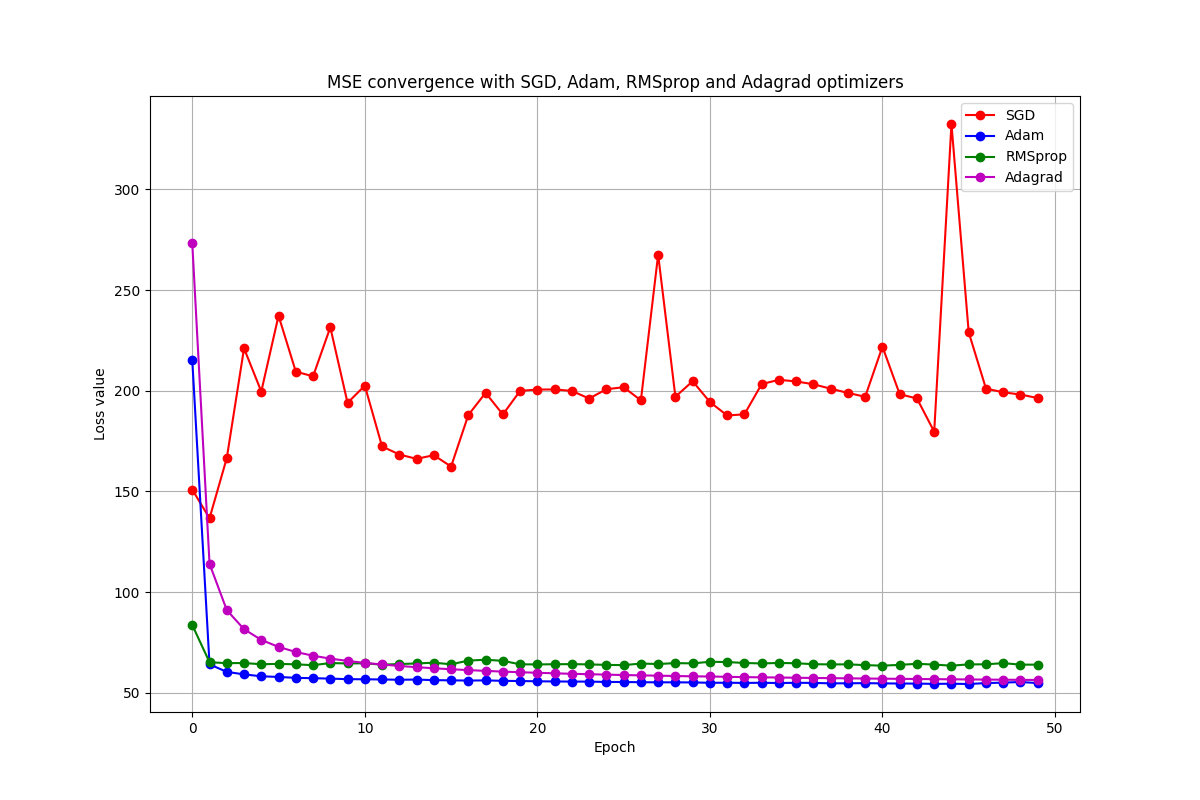
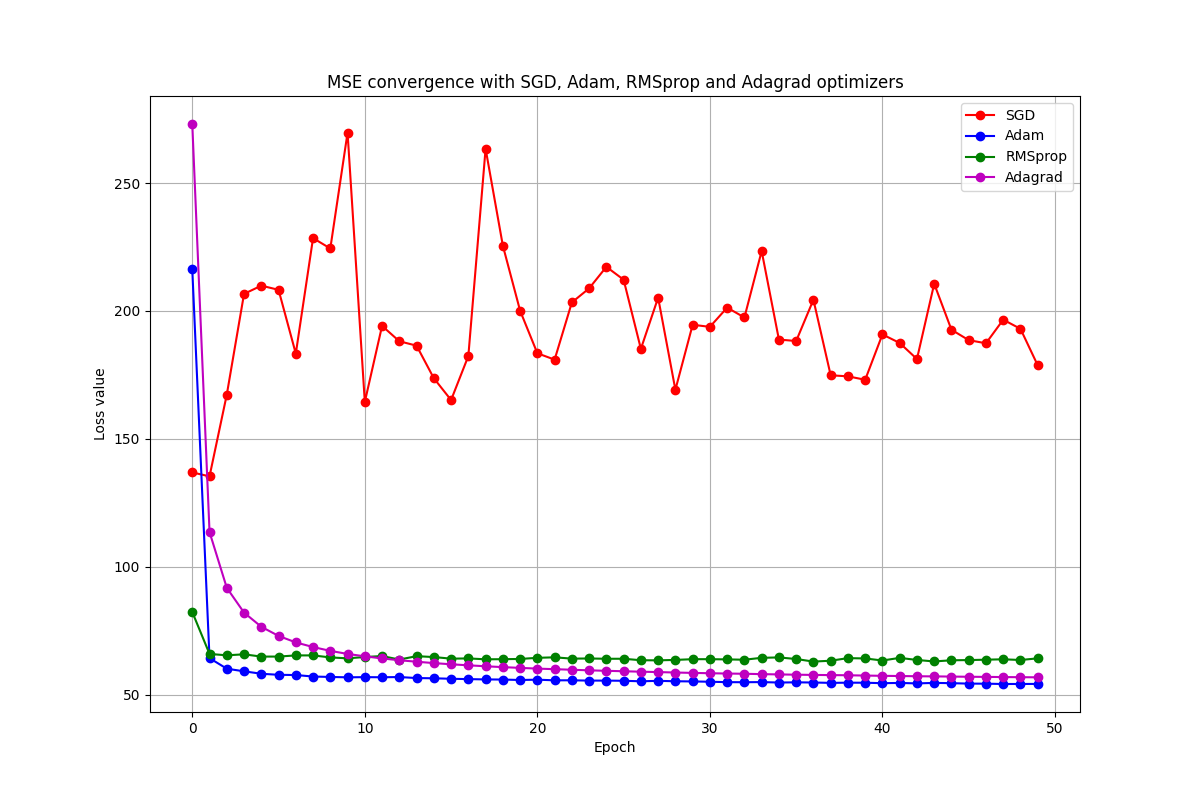
Added output on file and a few more runs

diff --git a/main.py b/main.py
@@ -3,16 +3,17 @@ import torch
 from poll_dataset import PollutionDataset
 from train_nn import PollutionLSTM, train_model, test_model
 from plots import plot_losses
+import pandas
 
 batch_size = 32
 input_window = 24
-hidden_size = 32
+hidden_size = 64
 n_predictions = 1
 n_layers = 1
-sgd_lr = 0.001
-adam_lr = 0.001
-rmsprop_lr = 0.01
-adagrad_lr = 0.01
+sgd_lr = 0.0005
+adam_lr = 0.0005
+rmsprop_lr = 0.005
+adagrad_lr = 0.005
 n_epochs = 50
 device = torch.device('cuda' if torch.cuda.is_available() else 'cpu')
 
@@ -77,6 +78,19 @@ print(f'SGD loss:\t{sgd_test_loss:.6f}\t\tSGD MAE:\t{sgd_test_mae:.6f}')
 print(f'Adam loss:\t{adam_test_loss:.6f}\t\tAdam MAE:\t{adam_test_mae:.6f}')
 print(f'RMSprop loss:\t{rmsprop_test_loss:.6f}\t\tRMSprop MAE:\t{rmsprop_test_mae:.6f}')
 print(f'Adagrad loss:\t{adagrad_test_loss:.6f}\t\tAdagrad MAE:\t{adagrad_test_mae:.6f}')
+
+# print metrics as a pandas dataframe
+with open(file='./results.txt', mode='at') as f:
+    column_names = ['Algorithm', 'Learning Rate', 'Loss Value', 'MAE']
+    data = [
+        ['SGD', sgd_lr, sgd_test_loss, sgd_test_mae],
+        ['Adam', adam_lr, adam_test_loss, adam_test_mae],
+        ['RMSprop', rmsprop_lr, rmsprop_test_loss, rmsprop_test_mae],
+        ['Adagrad', adagrad_lr, adagrad_test_loss, adagrad_test_mae]
+    ]
+    df = pandas.DataFrame(data=data, columns=column_names)
+    
+    print(f'Input Window: {input_window}, Hidden Size: {hidden_size}\n{df}\n', file=f)
 
 # plot
 plot_losses(sgd_loss_history, adam_loss_history, rmsprop_loss_history, adagrad_loss_history)

diff --git a/poll_dataset.py b/poll_dataset.py
@@ -2,9 +2,13 @@ import torch
 import numpy
 import pandas
 import os, sys
+from typing import Literal
 
 class PollutionDataset(torch.utils.data.Dataset):
-    def __init__(self, root, param: {'PM10', 'NO2', 'C6H6'} = 'PM10', test = False, input_window = 10, output_window = 1):
+    def __init__(self, root, param: Literal['PM10', 'NO2', 'C6H6'] = 'NO2', test = False, input_window = 10, output_window = 1):
+        if param not in ['PM10', 'NO2', 'C6H6']:
+            raise ValueError('PollutionDataset param must be \'PM10\' or \'NO2\' or \'C6H6\'')
+        
         super().__init__()
         self.root = root
         param_id = {
